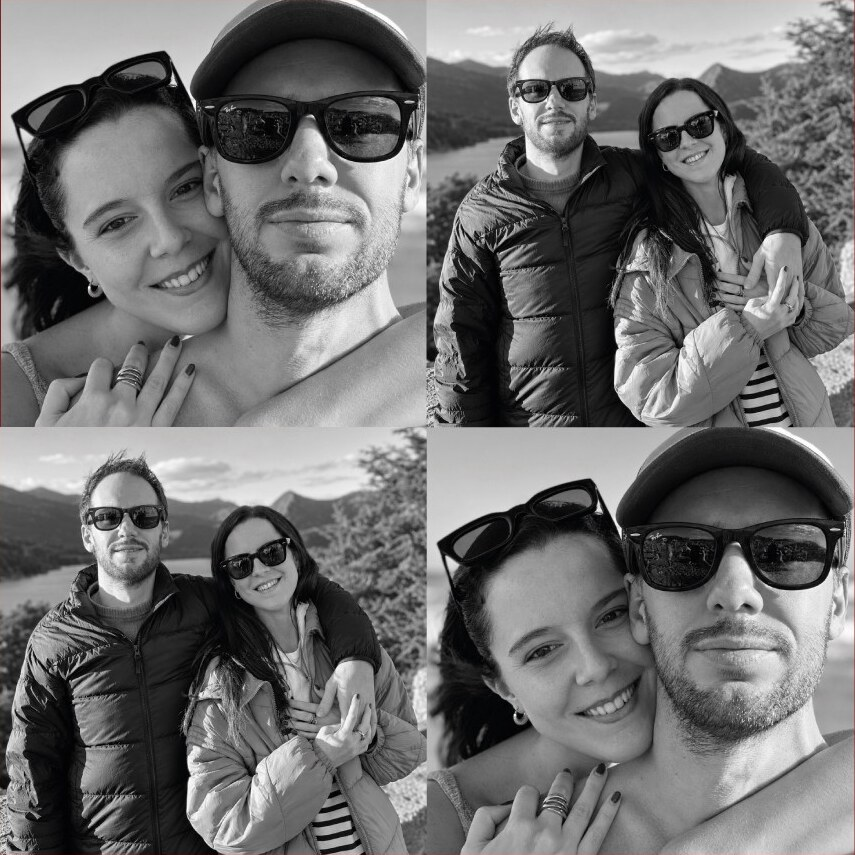
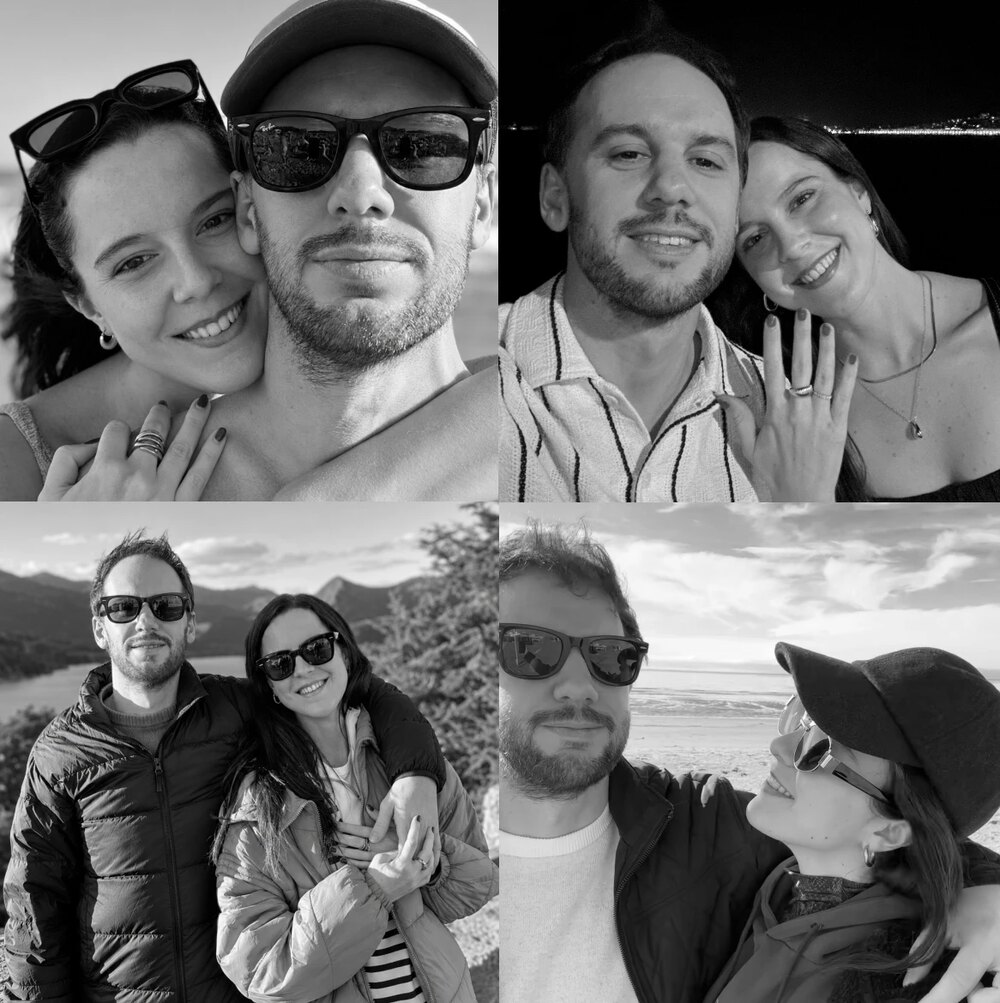
Reemplaza la grilla de fotos de los novios
- Nueva grilla 2x2 de 4 fotos (1000x1003), optimizada para web
- fotos.jpg con ?v= para evitar caché mezclado
- CLAUDE.md actualizado

Claude-Session: https://claude.ai/code/session_01VxFerNmowqpRBjk3z6tS9k

diff --git a/index.html b/index.html
@@ -11,8 +11,8 @@
 <link href="https://fonts.googleapis.com/css2?family=Cormorant+Garamond:ital,wght@0,500;1,400;1,500&family=DM+Sans:ital,wght@0,300;0,400;0,500;0,700;1,400;1,700&family=Pinyon+Script&family=Playfair+Display:ital,wght@0,400;1,400;1,500;1,600&display=swap" rel="stylesheet">
 <!-- Tipografía exacta de los títulos (Dulcinea): pegar acá el link del Web Project de Adobe Fonts
      y poner su nombre de familia al principio de --font-titulo en css/styles.css -->
-<link rel="stylesheet" href="css/styles.css?v=20261014b">
-<link rel="stylesheet" href="css/sobre.css?v=20261014b">
+<link rel="stylesheet" href="css/styles.css?v=20261015a">
+<link rel="stylesheet" href="css/sobre.css?v=20261015a">
 <noscript><style>body.locked{overflow:auto}.stage{display:none}.invitation{visibility:visible}</style></noscript>
 </head>
 <body class="locked">
@@ -23,15 +23,15 @@
   <!-- 0. Portada -->
   <section class="sec portada">
     <h1 class="sr-only">Juli &amp; Joaco — ¡Nos casamos! y queremos celebrarlo con vos…</h1>
-    <img src="img/portada.jpg?v=20261014b" width="1079" height="1917"
+    <img src="img/portada.jpg?v=20261015a" width="1079" height="1917"
          alt="Juli y Joaco. ¡Nos casamos! y queremos celebrarlo con vos…">
     <!-- Texto de la portada como capa aparte: 15 px más arriba y +3 pt de tamaño respecto del diseño (ver css) -->
-    <img class="portada-texto" src="img/portada-texto.png?v=20261014b" width="648" height="106" alt="" aria-hidden="true">
+    <img class="portada-texto" src="img/portada-texto.png?v=20261015a" width="648" height="106" alt="" aria-hidden="true">
   </section>
 
   <!-- 1. Lugar y horario -->
   <section class="sec sec--bordo lugar">
-    <img class="fotos" src="img/fotos.jpg" width="855" height="855" alt="Fotos de Juli y Joaco">
+    <img class="fotos" src="img/fotos.jpg?v=20261015a" width="1000" height="1003" alt="Fotos de Juli y Joaco">
     <h2><img class="titulo" src="img/title-lugar.png" alt="Lugar y horario"></h2>
     <p class="t-fecha">05 de diciembre 2026</p>
     <p class="t-lugar">La Posada Multiespacio<br>17:00 hs</p>
@@ -230,7 +230,7 @@
       <div class="back"></div>
 
       <div class="letter" id="letter">
-        <img class="letter-img" src="img/carta.jpg?v=20261014b" width="1000" height="1387" alt="">
+        <img class="letter-img" src="img/carta.jpg?v=20261015a" width="1000" height="1387" alt="">
       </div>
 
       <div class="front" aria-hidden="true">
@@ -258,9 +258,9 @@
 </button>
 <div id="yt-player" aria-hidden="true"></div>
 
-<script src="js/config.js?v=20261014b"></script>
-<script src="js/musica.js?v=20261014b"></script>
-<script src="js/main.js?v=20261014b"></script>
-<script src="js/sobre.js?v=20261014b"></script>
+<script src="js/config.js?v=20261015a"></script>
+<script src="js/musica.js?v=20261015a"></script>
+<script src="js/main.js?v=20261015a"></script>
+<script src="js/sobre.js?v=20261015a"></script>
 </body>
 </html>
